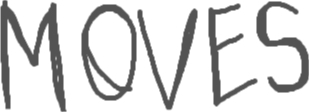
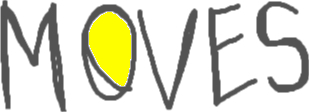
Title animation

Changed region(s): [[0.2621, 0.1071, 0.4369, 0.7768]]

diff --git a/style.css b/style.css
@@ -28,6 +28,22 @@ body {
     height: 200px;
 }
 
+#titleImg {
+    height: 75%;
+    width: 30%;
+    display: flex;
+    flex-direction: row;
+    justify-content: space-around;
+    align-items: center;
+    background-image: url('imgs/title.jpg');
+    background-size: contain;
+    background-repeat: no-repeat;
+}
+
+#titleImg:hover {
+    background-image: url('imgs/titleAnimation.jpg');
+}
+
 .scoreBoard {
     display: flex;
     flex-direction: row;
@@ -65,11 +81,6 @@ body {
     background-image: url('imgs/tower.jpg');
     background-size: 100% 100%;
     background-repeat: no-repeat;
-}
-
-#title {
-    width: 30%;
-    height: 75%;
 }
 
 #track {

diff --git a/index.html b/index.html
@@ -6,14 +6,16 @@
     <meta http-equiv="X-UA-Compatible" content="ie=edge">
     <link rel="stylesheet" href="style.css">
     <script src="https://unpkg.com/sweetalert/dist/sweetalert.min.js"></script>
-    
+
     <title>Document</title>
 </head>
 <body>
     
     <div class="game">
         <div class="menu">
-            <img id="title" src="imgs/title.jpg" alt="">
+            <div id="titleImg">
+                
+            </div>
         </div>
         <div class ='scoreBoard'>
             <div id="both">

diff --git a/script.js b/script.js
@@ -103,7 +103,6 @@ thirdBox.addEventListener('click', function(e) {
 });
 
 function check() {
-
     if(discsC.length === 4) {
         swal({title: "Good job!",
             text: "You won in "+ moves +" moves!",
